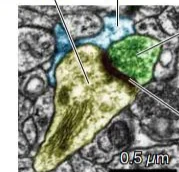
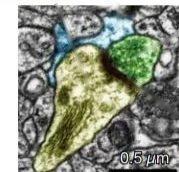
Review: interleave the missed bucket across lectures; tiers are advisory; EM leaders erased
PEDAGOGY.md section 5: every review bucket is dealt round-robin across
lectures, the missed bucket included, so a block of misses from one
sitting does not arrive as a block. Recency is only the tiebreak within
a lecture, and the lecture with the freshest miss deals first.
review.js follows: interleave() takes within/across orderings, the
missed bucket sorts each lecture stack by lastAt. Verified in the dev
server by missing all 15 L01 questions and 3 L02 questions through the
quiz UI; the review queue then runs L01, L02, L01, L02, L01, L02, then
the remaining L01 misses, then the unseen pool mixed across lectures.

PEDAGOGY.md section 2: the 5/5/3-5 split is advisory. A tier describes
the question's cognitive demand and is never adjusted to hit a count.
L02 stays 5/4/6.

figures_L01.py: inpaint the four printed leader stubs on the electron
micrograph panel of stains.webp (thin masks, small radius, since the
panel is 179 px wide); erase() now takes a radius. Sidecars refreshed
by the rerun. Checked at 1280 px in light and dark.

Claude-Session: https://claude.ai/code/session_01HCshabk3ijnN5KUCLgDdMt

diff --git a/src/js/review.js b/src/js/review.js
@@ -1,6 +1,6 @@
 // Cumulative review: questions from every built lecture, missed ones
-// first, then never seen, then interleaved retrieval of the rest.
-// See docs/PEDAGOGY.md section 5.
+// first, then never seen, then the rest. Every bucket is interleaved
+// across lectures. See docs/PEDAGOGY.md section 5.
 
 import { el, shuffle } from './dom.js';
 import { getLectureProgress } from './progress.js';
@@ -27,21 +27,30 @@ export function buildReviewQueue(lectures, getProgress = getLectureProgress) {
     }
   }
 
-  // Missed: most recently missed first, so the freshest gap is closed first.
-  missed.sort((a, b) => (b.record.lastAt || 0) - (a.record.lastAt || 0));
+  // Missed: interleaved across lectures like the other buckets, so a
+  // block of misses from one sitting does not arrive as a block. Within
+  // a lecture the most recent miss comes first, and the lecture holding
+  // the freshest miss deals first.
+  const byRecency = (a, b) => (b.record.lastAt || 0) - (a.record.lastAt || 0);
+  const missedQueue = interleave(missed, {
+    within: (stack) => stack.slice().sort(byRecency),
+    across: (stacks) => stacks.slice().sort((a, b) => byRecency(a[0], b[0])),
+  });
 
-  return [...missed, ...interleave(unseen), ...interleave(seen)];
+  return [...missedQueue, ...interleave(unseen), ...interleave(seen)];
 }
 
-// Shuffle within each lecture, then deal round-robin across lectures so
-// consecutive questions come from different lectures whenever possible.
-export function interleave(entries) {
+// Group by lecture, order each lecture's stack with `within` and the
+// stacks with `across` (both shuffle by default), then deal round-robin
+// so consecutive questions come from different lectures whenever
+// another lecture still has questions left.
+export function interleave(entries, { within = shuffle, across = shuffle } = {}) {
   const byLecture = new Map();
-  for (const entry of shuffle(entries)) {
+  for (const entry of entries) {
     if (!byLecture.has(entry.lectureId)) byLecture.set(entry.lectureId, []);
     byLecture.get(entry.lectureId).push(entry);
   }
-  const stacks = shuffle([...byLecture.values()]);
+  const stacks = across([...byLecture.values()].map(within));
   const out = [];
   while (stacks.some((s) => s.length)) {
     for (const stack of stacks) {
@@ -120,7 +129,7 @@ export function renderReview(container, registry) {
 
   container.replaceChildren(
     el('h2', { id: 'review-title' }, 'Cumulative review'),
-    el('p', {}, 'Questions from every built lecture. Ones you missed come first, then ones you have not seen, then the rest mixed across lectures.'),
+    el('p', {}, 'Questions from every built lecture, mixed across lectures. Ones you missed come first, then ones you have not seen, then the rest.'),
     controls,
     list,
     el('div', { class: 'btn-row' }, [moreButton])

diff --git a/scripts/figures_L01.py b/scripts/figures_L01.py
@@ -37,10 +37,10 @@ def paint(name, boxes, out=None):
     run(*args)
 
 
-def erase(name, lines, width=9, out=None):
+def erase(name, lines, width=9, radius=5, out=None):
     """Inpaint leader-line stubs left after the labels were painted out,
     so the hotspot widget draws the only leaders on the picture."""
-    args = ["scripts/retouch_figure.py", "erase", F / f"{name}.webp", F / f"{out or name}.webp", "--width", width]
+    args = ["scripts/retouch_figure.py", "erase", F / f"{name}.webp", F / f"{out or name}.webp", "--width", width, "--radius", radius]
     for line in lines:
         args += ["--line", *line]
     run(*args)
@@ -107,6 +107,11 @@ def main():
     crop("golgi-photo", [0, 0, 100, 82])
     extract(36, 2, "em-synapse")
     crop("em-synapse", [15, 10, 63, 48])
+    # Leader stubs into the three tinted profiles and the synaptic
+    # cleft. The panel is only 179 px wide, so masks are thin and the
+    # inpaint radius small to keep the smear under the mask width.
+    erase("em-synapse", [[31, 0, 49.5, 49], [65.5, 0, 65.5, 15.5], [100, 19.5, 75.5, 32]], width=4, radius=3)
+    erase("em-synapse", [[71.5, 45.5, 100, 67.5]], width=5, radius=2)
     compose("stains", [F / "nissl-photo.webp", F / "golgi-photo.webp", F / "em-synapse.webp"], height=520, gap=30)
 
     # Glia: astrocyte (slide 35, Figure 2.24), oligodendrocyte (BioArt

diff --git a/docs/PEDAGOGY.md b/docs/PEDAGOGY.md
@@ -44,7 +44,12 @@ Rules that follow from the tiers:
 
 - Concept quizzes are always easy.
 - The lecture quiz has 12 to 15 questions ordered easy, then medium,
-  then hard. A reasonable split is 5 easy, 5 medium, 3 to 5 hard.
+  then hard. A reasonable split is 5 easy, 5 medium, 3 to 5 hard, but
+  the split is advisory. The tier of a question describes its cognitive
+  demand as defined in the table above, and it is never adjusted to hit
+  a target count. If a lecture's questions come out 5, 4, 6 (as L02
+  does), that is the correct labelling for those questions; relabel
+  only when the demand of the question itself changes.
 - Every question is answerable from the slides plus the textbook within
   slide scope. No textbook trivia the slides never touch.
 - Rewrite the notes' self-check questions into these formats and include
@@ -142,16 +147,22 @@ Queue construction, in this order:
 
 1. Missed first. Every question whose last recorded result is missed
    (wrong on first attempt, or self-scored below full marks), across all
-   built lectures, sorted by most recently missed first. These always
-   come before anything else.
+   built lectures. These always come before anything else.
 2. Never seen. Questions with no record, so the student meets every
    question at least once.
-3. Interleaved retrieval. The remaining questions (previously correct)
-   are shuffled and interleaved across lectures: the queue never shows
-   two questions from the same lecture back to back when another lecture
-   has questions left. Interleaving forces the student to identify which
-   concept applies rather than riding the context of one chapter.
-4. Within each bucket, tiers are mixed rather than sorted, so the student
+3. Previously correct. The remaining questions, for retrieval practice.
+4. Every bucket is interleaved across lectures: questions are grouped by
+   lecture and dealt round-robin, so the queue never shows two questions
+   from the same lecture back to back when another lecture still has
+   questions left in that bucket. Interleaving forces the student to
+   identify which concept applies rather than riding the context of one
+   chapter. It applies to the missed bucket too: a block of misses from
+   one sitting of one lecture quiz must not arrive as a block.
+5. Order within a lecture's stack: in the missed bucket, most recently
+   missed first, so recency is only the tiebreak within a lecture, and
+   the lecture holding the freshest miss deals first. In the other two
+   buckets the stack is shuffled and the lecture order is shuffled.
+6. Within each bucket, tiers are mixed rather than sorted, so the student
    cannot coast on easy ones at the start.
 
 Session rules:
